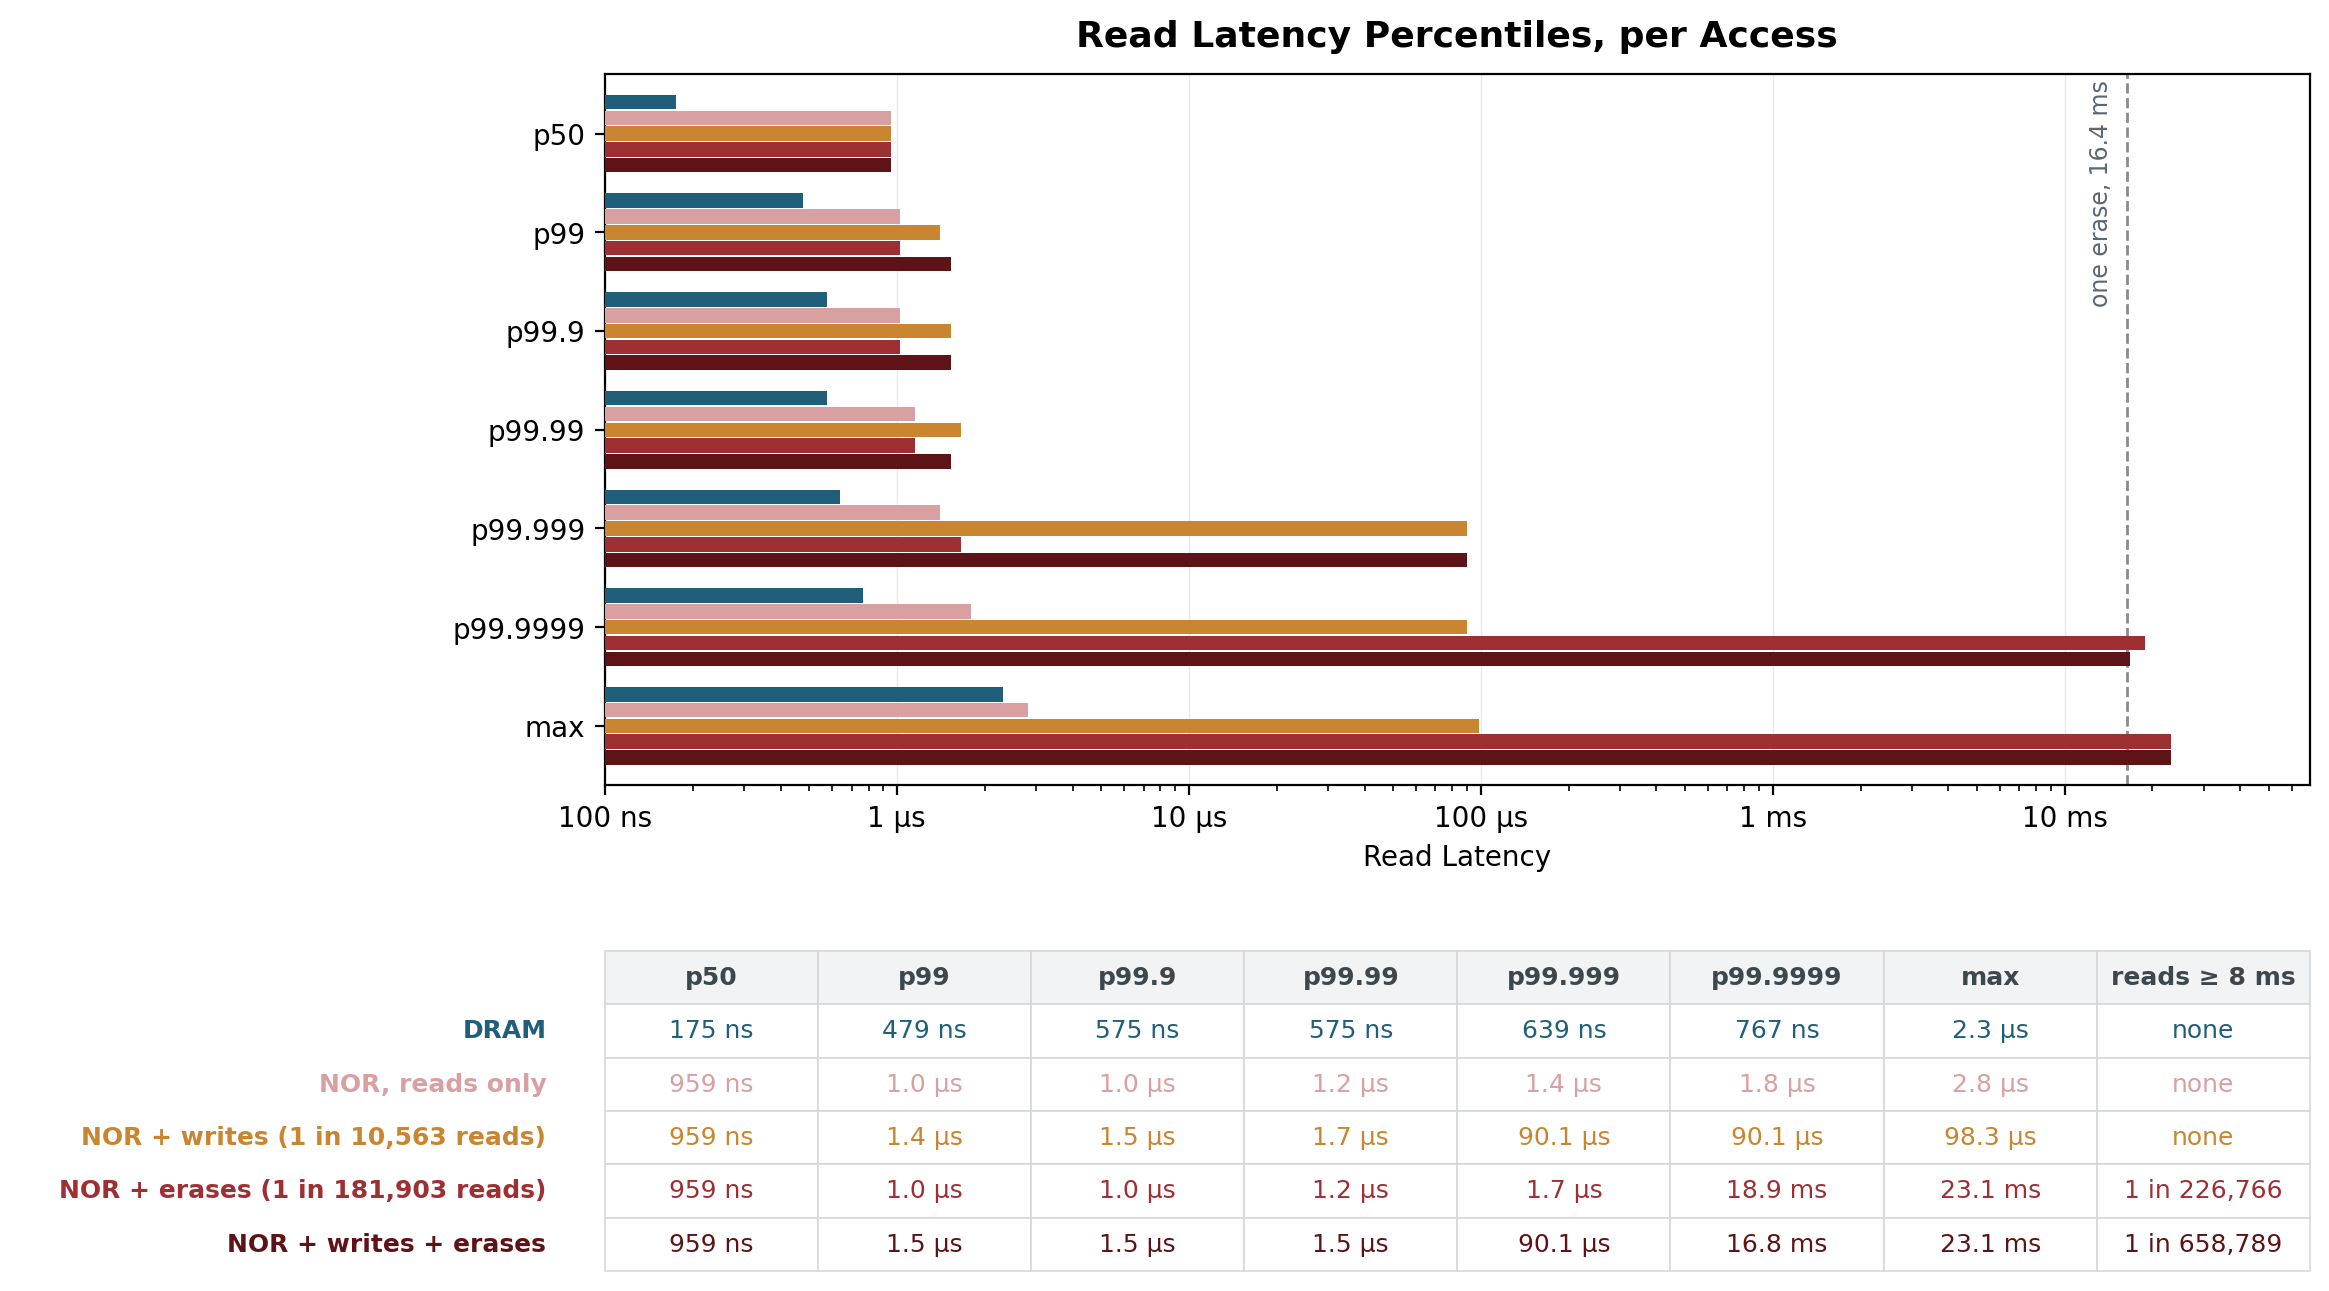
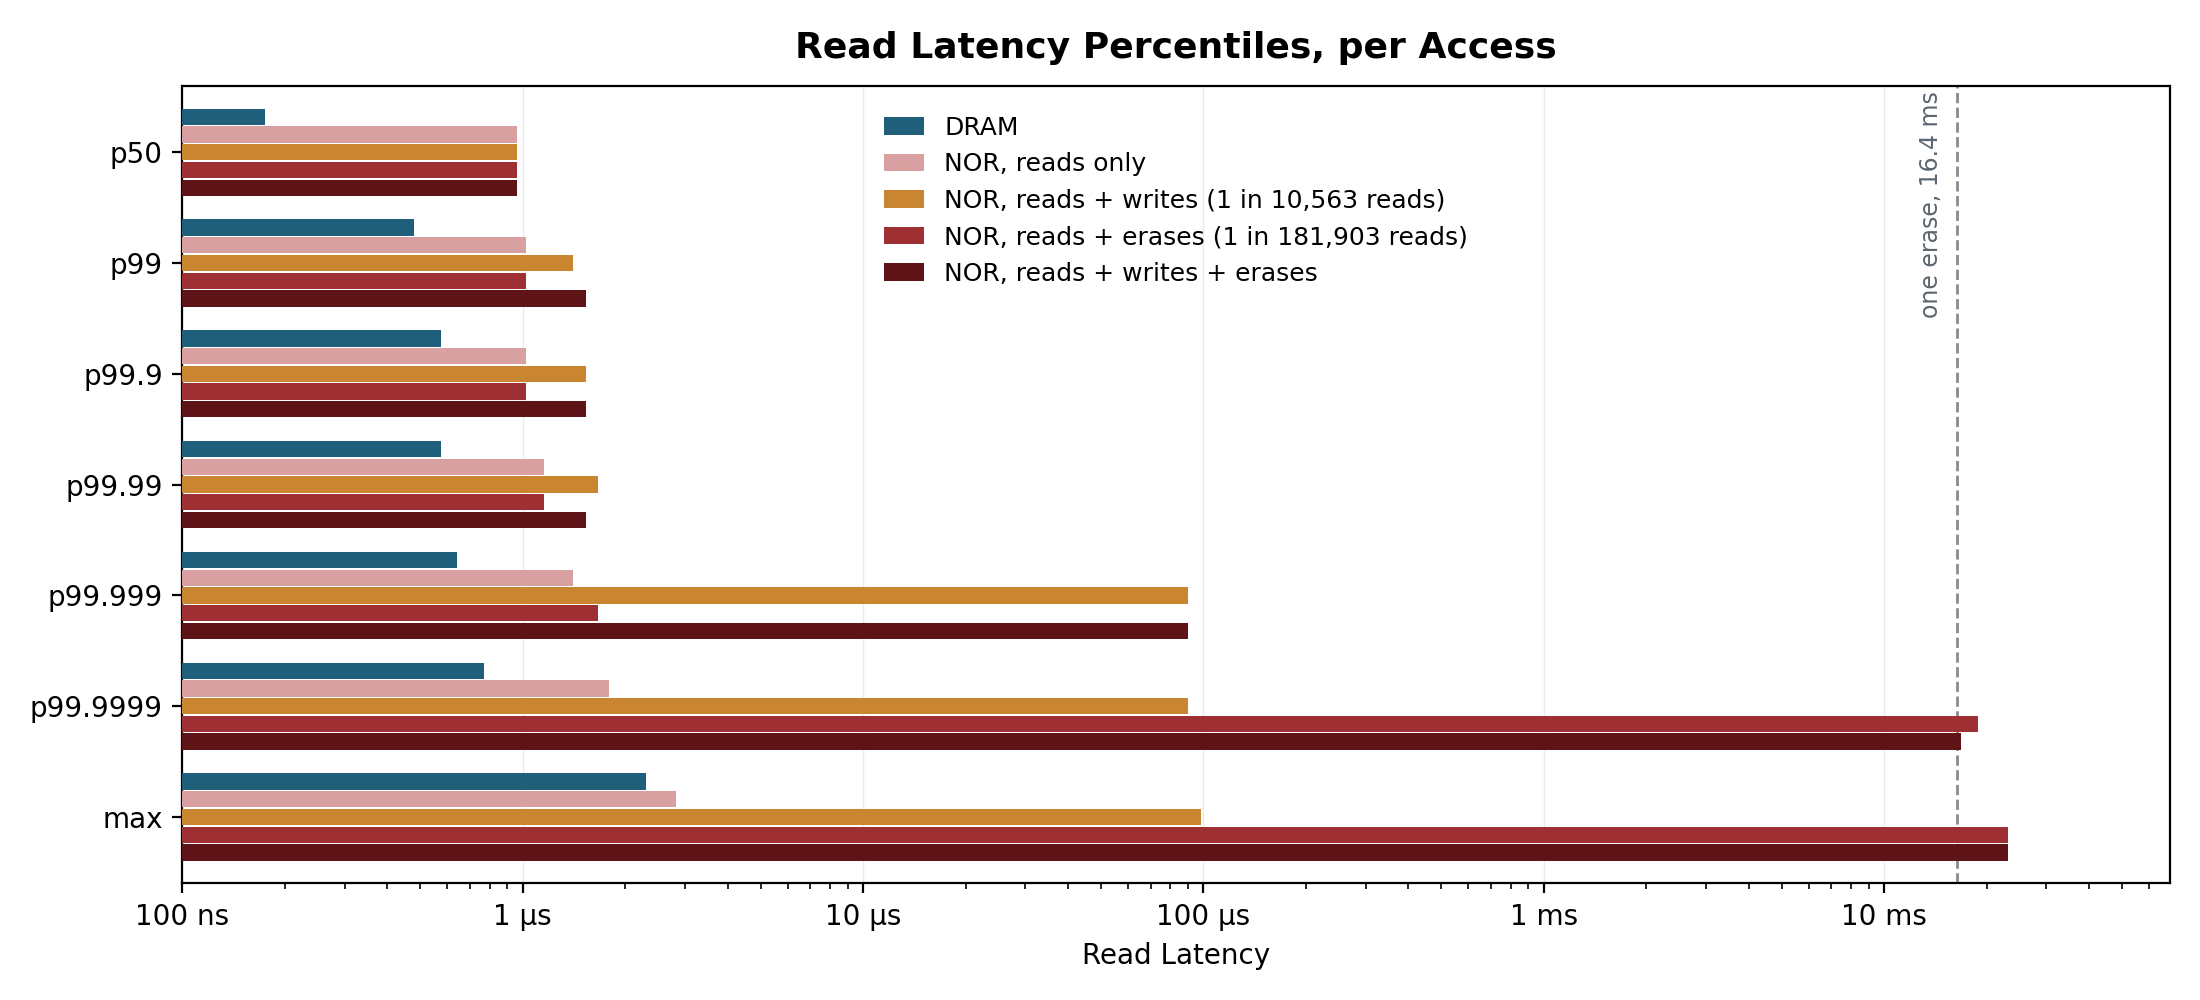
fig9: split the chart and the table into two usable images
They were one image, which forced anyone placing them to take both. Now:
fig9-latency-tail.png is the bars alone, fig9c-table.png the numbers alone.

Chart legend moves to top middle, where the short p50/p99 bars leave the
upper right two-thirds empty anyway. The table drops its legend (the row
labels already carry the colours) and centres its title.

Conditions relabelled "NOR, reads + writes" rather than "NOR + writes":
without the word reads it is ambiguous whether the read stream is still
there at all, when in fact every NOR row is the same reader with something
added alongside it.

Dropped the "reads >= 8 ms" column. It was a second way of saying what the
p99.999/p99.9999 knee already says, and 8 ms is an arbitrary cut.

diff --git a/scripts/plot_selftest.py b/scripts/plot_selftest.py
@@ -549,10 +549,10 @@ if r:
              "dram_control":    (C_DRAM,    "DRAM control (no flash at all)"),
              "nor_read":        ("#D9A0A2", "NOR, reads only"),
              "engine_off":      ("#D9A0A2", "NOR, no background erasing"),
-             "nor_write":       ("#C9852F", "NOR + writes (1 in 10,563 reads)"),
-             "nor_erase":       ("#9E2F33", "NOR + erases (1 in 181,903 reads)"),
+             "nor_write":       ("#C9852F", "NOR, reads + writes (1 in 10,563 reads)"),
+             "nor_erase":       ("#9E2F33", "NOR, reads + erases (1 in 181,903 reads)"),
              "erasing":         ("#9E2F33", "NOR, erasing every 28.8 ms"),
-             "nor_write_erase": ("#5E1417", "NOR + writes + erases"),
+             "nor_write_erase": ("#5E1417", "NOR, reads + writes + erases"),
              "engine_spaced":   (C_NOR,     "NOR, erasing at 7.2/s (30 ms spacing)"),
              "engine_flat_out": ("#7A1F22", "NOR, erasing unspaced at 33.9/s")}
     order = ["dram", "dram_control", "nor_read", "engine_off",
@@ -585,19 +585,17 @@ if r:
         # the tail, so every percentile below p99.999 was a sliver against the
         # axis. Log gives 1 us and 34 ms room on the same picture; the table
         # carries the digits so nothing has to be traced off the axis.
-        fig, (ax, axt) = plt.subplots(
-            2, 1, figsize=(11, 7.2), gridspec_kw=dict(height_ratios=[3, 1], hspace=0.34))
-        # 100 ns: the DRAM control's p50 is 159 ns, and at 0.5 us its first
-        # three bars fell off the left edge entirely.
+        # Chart and table as SEPARATE images, so each can be used on its own.
+        # A combined figure forces whoever is placing it to take both.
+        fig, ax = plt.subplots(figsize=(11, 5.0))
         X0 = 1e-4                                        # ms, i.e. 100 ns
         top = max(pct(c, 1.0) for c, _, _ in have) / 1e6 * 3
         ax.set_xscale("log"); ax.set_xlim(X0, top)
         nb = len(have); h = 0.8 / nb
         for k, (cond, colour, label) in enumerate(have):
             vals = [pct(cond, q) / 1e6 for q, _ in QS]
-            ys = [len(QS) - 1 - j + (nb - 1 - k) * h - (nb - 1) * h / 2
-                  for j in range(len(QS))]
-            # left=X0 explicitly: a bar from 0 has no left edge on a log axis.
+            ys = [len(QS) - 1 - j2 + (nb - 1 - k) * h - (nb - 1) * h / 2
+                  for j2 in range(len(QS))]
             ax.barh(ys, [v - X0 for v in vals], left=X0, height=h * 0.92,
                     color=colour, label=label, zorder=3)
         ax.axvline(16.4, color=C_GRID, lw=1, ls="--", zorder=2)
@@ -611,21 +609,25 @@ if r:
         ax.set_ylim(-0.6, len(QS) - 0.4)
         frame(ax, "Read Latency Percentiles, per Access", "Read Latency", "")
         ax.grid(axis="y", visible=False)
-        # No legend: the table's row labels are colour-coded and carry the
-        # same information, and a legend box lands on the max bars.
+        ax.legend(fontsize=9, frameon=False, loc="upper center",
+                  labelspacing=0.5, handlelength=1.6, borderpad=0.7)
+        fig.tight_layout()
+        fig.savefig(f"{OUT}/fig9-latency-tail.png", dpi=200)
+        made.append("fig9-latency-tail")
 
-        # The digits, so no one has to read them off a log axis.
-        axt.axis("off")
-        cols = [n for _, n in QS] + ["reads \u2265 8 ms"]
+        # The same numbers as a standalone table, carrying its own legend so it
+        # is self-describing away from the chart.
+        cols = [n for _, n in QS]
         cells, rowlab, rowcol = [], [], []
         for cond, colour, label in have:
-            c8, n = slower_than(cond, 8_000_000)
-            cells.append([fmt(pct(cond, q)) for q, _ in QS]
-                         + [f"1 in {n//c8:,}" if c8 else "none"])
+            cells.append([fmt(pct(cond, q)) for q, _ in QS])
             rowlab.append(label); rowcol.append(colour)
+        nrow = len(have)
+        figt, axt = plt.subplots(figsize=(11.5, 0.42 * nrow + 0.8))
+        axt.axis("off")
         tb = axt.table(cellText=cells, colLabels=cols, rowLabels=rowlab,
-                       cellLoc="center", rowLoc="right", loc="upper center")
-        tb.auto_set_font_size(False); tb.set_fontsize(9); tb.scale(1, 1.6)
+                       cellLoc="center", rowLoc="right", loc="center")
+        tb.auto_set_font_size(False); tb.set_fontsize(9.5); tb.scale(1, 1.75)
         for (row, col), cell in tb.get_celld().items():
             cell.set_edgecolor("#D5D8DA"); cell.set_linewidth(.6)
             if row == 0:
@@ -636,8 +638,10 @@ if r:
                 cell.set_facecolor("none"); cell.set_edgecolor("none")
             else:
                 cell.set_text_props(color=rowcol[row - 1])
-        fig.savefig(f"{OUT}/fig9-latency-tail.png", dpi=200, bbox_inches="tight")
-        made.append("fig9-latency-tail")
+        axt.set_title("Read Latency Percentiles, per Access", fontsize=13,
+                      weight="semibold", color="#22282c", pad=16)
+        figt.savefig(f"{OUT}/fig9c-table.png", dpi=200, bbox_inches="tight")
+        made.append("fig9c-table")
 
         # fig9b: the quantile function. x is percentile on a "number of nines"
         # scale (-log10(1-p)), y is latency, log. A CDF hides knees because it
